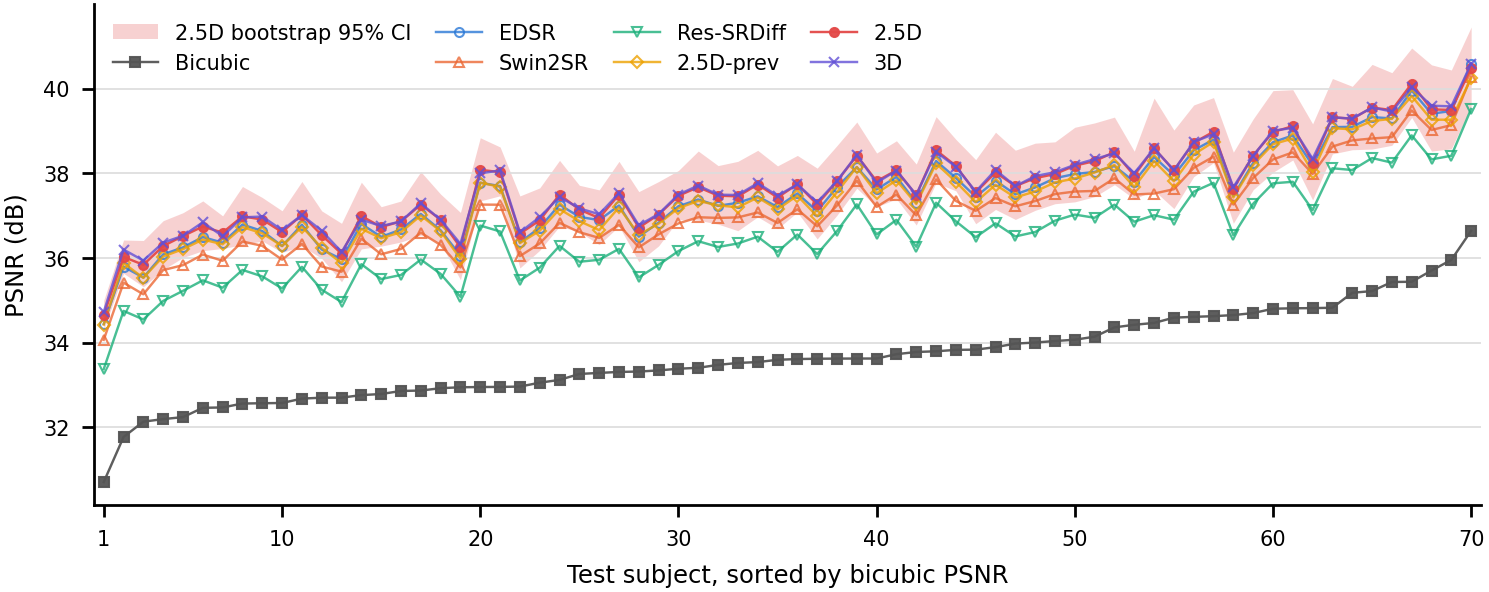
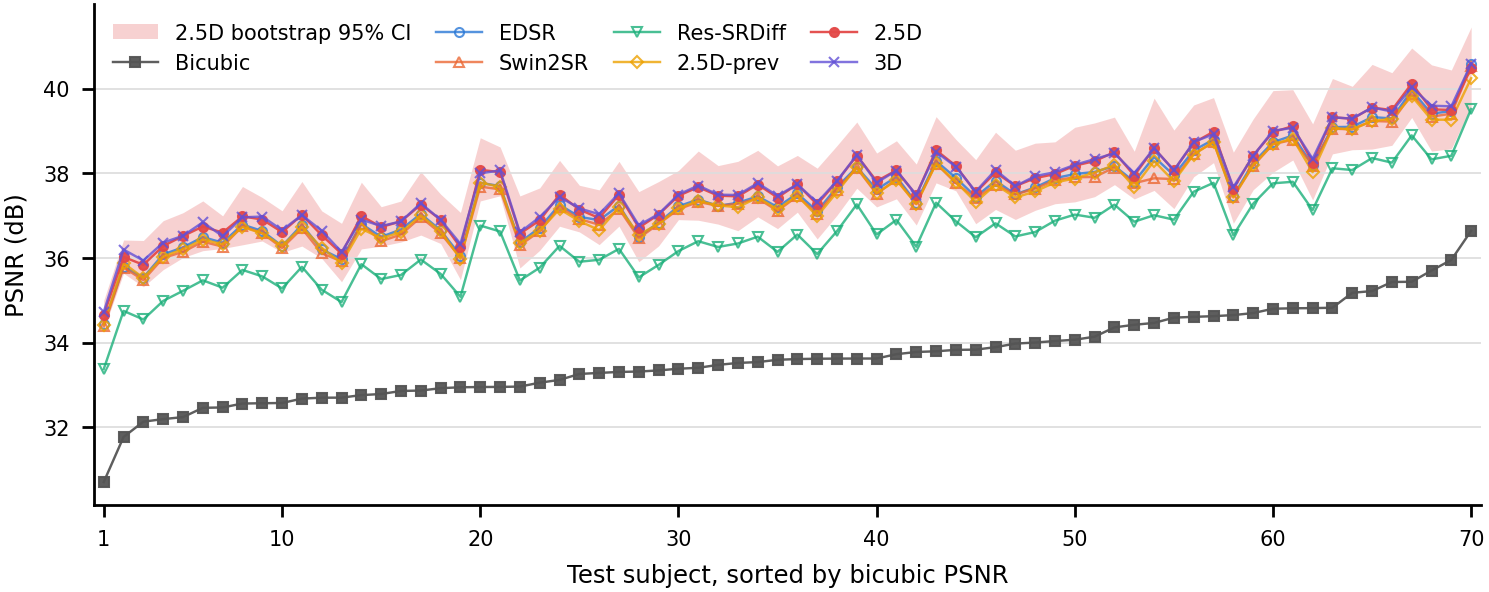
Swin2SR final (epoch 20): README row and per-subject figure

Changed region(s): [[0.0618, 0.152, 0.9886, 0.5169], [0.0618, 0.5473, 0.0927, 0.5777]]

diff --git a/README.md b/README.md
@@ -15,14 +15,14 @@ Every model is trained from scratch to convergence on 500 subjects of the NKI co
 |---|---|---|---|---|---|---|
 | Bicubic | 33.66 | 0.087 | 33.93 | 32.63 | 31.16 | -- |
 | EDSR | 37.50 | 0.026 | **35.01** | 33.26 | 33.04 | 1.4M |
-| Swin2SR\* | 37.11 | 0.030 | 34.92 | 32.92 | 33.36 | 1.0M |
+| Swin2SR\* | 37.43 | 0.027 | 34.94 | 33.02 | 33.29 | 1.0M |
 | Res-SRDiff | 36.48 | 0.008† | 34.20 | 33.00 | 31.54 | 56.7M |
 | 2.5D EDM, previous slice | 37.43 | 0.023 | 34.80 | 33.30 | 32.54 | 51.1M |
 | 2.5D EDM, both neighbours | 37.70 | **0.022** | 34.98 | **33.54** | 32.77 | 51.1M |
 | 3D EDM | **37.72** | 0.023 | 34.87 | 33.24 | **33.65** | 50.7M |
 
 - **Test sets.** *Block-avg.* is the degradation used in training (2x2 block averaging). *k-space* keeps the central half of k-space, which produces Gibbs ringing. *k-space + noise* adds Rician noise on top. No model saw either k-space degradation in training. *IXI* is a zero-shot test on 70 skull-stripped subjects of the IXI cohort (three London hospitals, three scanners). Its score is PSNR over brain pixels only, because the empty background inflates plain PSNR.
-- **Footnotes.** † Res-SRDiff trains on the same LPIPS network that is used as the metric, so its LPIPS is not comparable. \* Swin2SR's continued training is still running, so its row is provisional.
+- **Footnotes.** † Res-SRDiff trains on the same LPIPS network that is used as the metric, so its LPIPS is not comparable. \* Swin2SR stopped at its 20-epoch cap while still improving slightly on validation; every other model stopped by the early-stopping rule.
 
 Neither architecture dominates. On the training degradation the 3D model and the both-neighbours 2.5D model are tied, and both are 0.2 dB ahead of EDSR. The 2.5D model copes better with a change of degradation: it ties EDSR on k-space and leads every metric with noise. The 3D model copes better with a change of cohort and leads on IXI.
 
